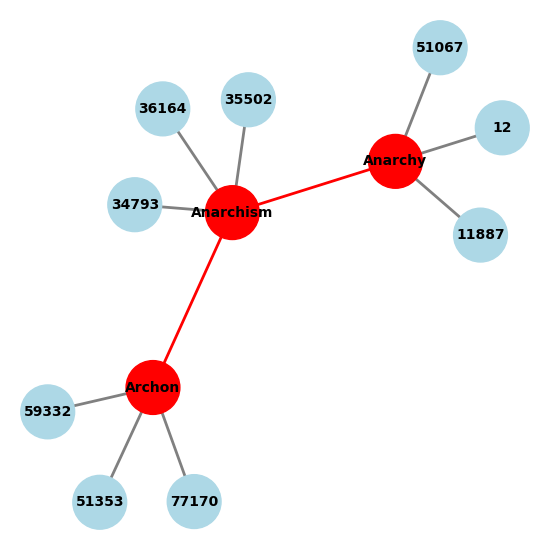
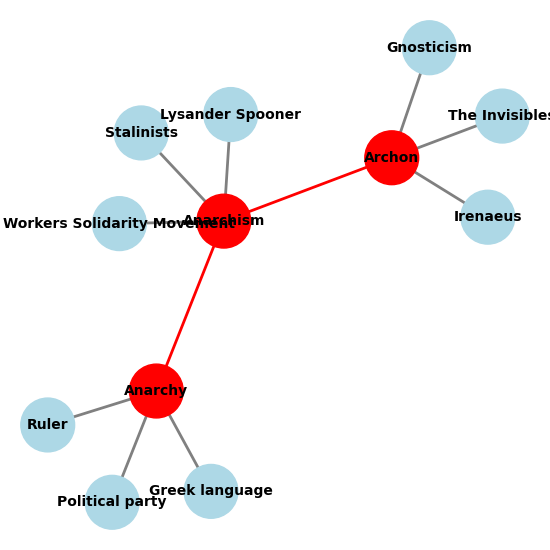
samples a random 3 neighbors for the visualization

diff --git a/db.py b/db.py
@@ -6,7 +6,7 @@ id_to_title_path = 'data/id_to_title.csv'
 # Change where the .db file is created
 db_file_path = 'data/wikilinks.db'
 
-import csv, click, sqlite3, json
+import csv, click, sqlite3, json, random
 from flask import current_app, g
 from functools import lru_cache
 
@@ -109,4 +109,16 @@ def get_a_few_neighbors(name):
     cursor.execute(wk_query, (row[0],))
     row = cursor.fetchone()
     neighbors = json.loads(row[0],)
-    return neighbors[:3]
+    
+    #sample 3 neighbors
+    if len(neighbors) > 3:
+        neighbors = random.sample(neighbors, 3)
+
+    neighbor_names = []
+
+    for neighbor in neighbors:
+        neighbor_name = check_name(neighbor)  # Use check_name to get the neighbor's name
+        if neighbor_name:  # Ensure valid name is returned
+            neighbor_names.append(neighbor_name)
+
+    return neighbor_names

diff --git a/algs.py b/algs.py
@@ -11,7 +11,7 @@ import time
 
 # breadth-first search over adjacency list graph of wikipedia links
 def bfs(start, end):
-    print("hi")
+    #print("hi")
     start = db.check_id(start)
     end = db.check_id(end)
     print(start, end)
@@ -27,7 +27,7 @@ def bfs(start, end):
 
     while queue:
         search_value = queue.popleft()
-        print(search_value, end)
+        #print(search_value, end)
 
         if int(search_value) == int(end):
             path = []
